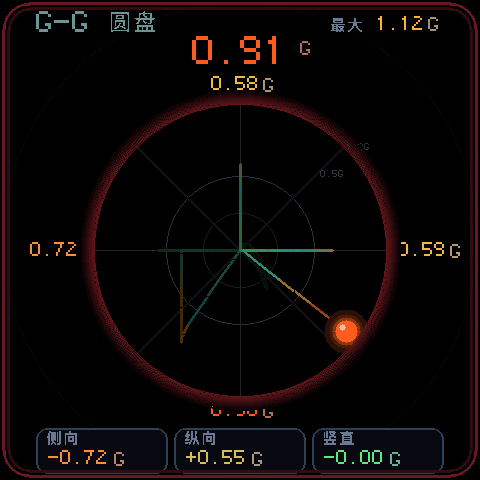
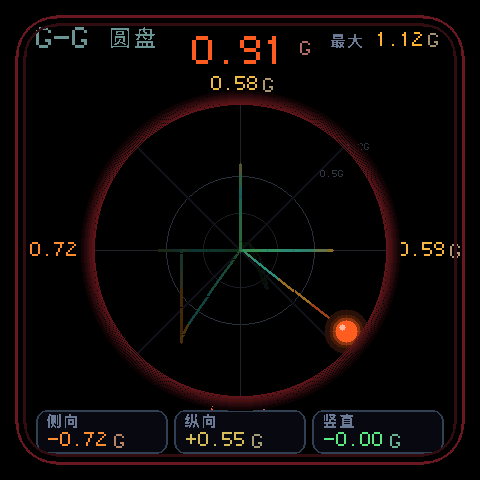
Alarm frames follow screen radius (inset 16/r40), drop pro-page top accent line, lift GG axis cards, real-device mockup and poster

Changed region(s): [[0.0, 0.0, 1.0, 1.0]]

diff --git a/GValueMeter/gg_mode.cpp b/GValueMeter/gg_mode.cpp
@@ -84,17 +84,14 @@ void GgMode::draw(CanvasGFX *c, const GSnapshot &g) {
   bool alarm = (g.mag > HIGH_G_LIMIT);
   uint16_t accent = ggAccent(g.mag);
 
-  /* 屏边一圈极淡的绿光，和宠物页保持同一套底子 */
-  hudRing(c, 240.f, 240.f, 238.f, 238.f, 2.f, fade565(COL_GREEN, KB, alarm ? 0.04f : 0.10f));
-
   /* ---- 顶部：标题 / 历史最大（左右各内缩 36px，避开硬件圆角） ---- */
-  hudCN(c, SAFE_L, 10, 24, lerp565(COL_DIM, COL_GREEN, 0.25f), "G-G 圆盘");
+  hudCN(c, SAFE_L, 26, 24, lerp565(COL_DIM, COL_GREEN, 0.25f), "G-G 圆盘");
   char buf[24];
   snprintf(buf, sizeof(buf), "%.2f", g.peak);
   int16_t vw = (int16_t)(strlen(buf) * 12);            /* size2 每字符 12px */
-  hudCN(c, (int16_t)(SAFE_R - 16), 16, 16, lerp565(COL_DIM, COL_AMBER, 0.4f), "G");
-  hudTextR(c, (int16_t)(SAFE_R - 20), 16, 2, COL_AMBER, buf);
-  hudCNR(c, (int16_t)(SAFE_R - 20 - vw - 12), 17, 16, COL_DIM, "最大");
+  hudCN(c, (int16_t)(SAFE_R - 16), 32, 16, lerp565(COL_DIM, COL_AMBER, 0.4f), "G");
+  hudTextR(c, (int16_t)(SAFE_R - 20), 32, 2, COL_AMBER, buf);
+  hudCNR(c, (int16_t)(SAFE_R - 20 - vw - 12), 33, 16, COL_DIM, "最大");
 
   /* ---- 当前合成 G：大号读数 ---- */
   snprintf(buf, sizeof(buf), "%.2f", g.mag);
@@ -175,22 +172,22 @@ void GgMode::draw(CanvasGFX *c, const GSnapshot &g) {
   Axis axes[3] = {{"侧向", g.lat}, {"纵向", g.lon}, {"竖直", g.vert}};
   for (int i = 0; i < 3; i++) {
     int16_t bx = (int16_t)(SAFE_L + i * 138);
-    hudPanel(c, bx, 428, 132, 46, 12, RGB565(8, 11, 18),
+    hudPanel(c, bx, 410, 132, 44, 12, RGB565(8, 11, 18),
              lerp565(COL_PRO_PANEL, COL_DIM, 0.45f));
-    hudCN(c, bx + 10, 430, 16, COL_DIM, axes[i].name);
+    hudCN(c, bx + 10, 413, 16, COL_DIM, axes[i].name);
     char vb[16];
     snprintf(vb, sizeof(vb), "%+.2f", axes[i].v);
     uint16_t vc = ggAccent(fabsf(axes[i].v));
-    hudText(c, bx + 12, 450, 2, vc, vb);
+    hudText(c, bx + 12, 432, 2, vc, vb);
     int16_t wv = (int16_t)(strlen(vb) * 12);
-    hudCN(c, (int16_t)(bx + 18 + wv), 451, 16, lerp565(COL_DIM, vc, 0.5f), "G");
+    hudCN(c, (int16_t)(bx + 18 + wv), 433, 16, lerp565(COL_DIM, vc, 0.5f), "G");
   }
 
   /* ---- 报警：贴边红框闪 + 圆盘内一圈红色辉光（视频里那圈红光） ---- */
   if (alarm) {
     float ph = 0.5f + 0.5f * sinf(_t * 12.f);
-    hudRoundBorder(c, 3, 3, 474, 474, 26, fade565(COL_RED, KB, 0.25f + 0.65f * ph));
-    hudRoundBorder(c, 8, 8, 464, 464, 22, fade565(COL_RED, KB, 0.10f + 0.35f * ph));
+    hudRoundBorder(c, 16, 16, 448, 448, 40, fade565(COL_RED, KB, 0.25f + 0.65f * ph));
+    hudRoundBorder(c, 24, 24, 432, 432, 32, fade565(COL_RED, KB, 0.10f + 0.35f * ph));
     /* 圆盘内侧一圈平滑红色辉光：逐半径降低透明度，不会出现"珠链" */
     for (int k = 0; k <= 14; k++) {
       float al = (0.55f * ph + 0.22f) * (1.f - (float)k / 15.f);

diff --git a/GValueMeter/pro_mode.cpp b/GValueMeter/pro_mode.cpp
@@ -51,11 +51,6 @@ void ProMode::update(const GSnapshot &g, float dt) {
 void ProMode::draw(CanvasGFX *c, const GSnapshot &g) {
   c->fillRect(0, 0, 480, 480, COL_PRO_BG);
 
-  /* 顶部渐变亮线 */
-  for (int16_t x = 0; x < 480; x += 3) {
-    c->fillRect(x, 0, 3, 2, lerp565(COL_TEAL, COL_VIOLET, (float)x / 480.f));
-  }
-
   drawHeader(c, g);
   drawBigValue(c, g);
 
@@ -260,6 +255,7 @@ void ProMode::drawAlarm(CanvasGFX *c, bool on) {
   if (!on) return;
   /* 圆角边框：屏是圆角屏（四角被切掉约 30px），直角框会在角上"戳出"屏幕，
    * 这里按屏的圆角半径走圆角，外框 + 一圈更暗的内框做发光层次 */
-  hudRoundBorder(c, 6, 6, 468, 468, 34, COL_RED);
-  hudRoundBorder(c, 13, 13, 454, 454, 28, fade565(COL_RED, COL_PRO_BG, 0.30f));
+  /* 屏四角是圆弧（半径约 56px），边框必须内缩并同半径收圆，否则外角会被切掉 */
+  hudRoundBorder(c, 16, 16, 448, 448, 40, COL_RED);
+  hudRoundBorder(c, 24, 24, 432, 432, 32, fade565(COL_RED, COL_PRO_BG, 0.30f));
 }
